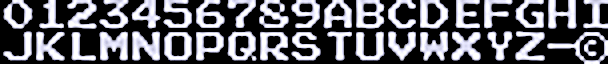
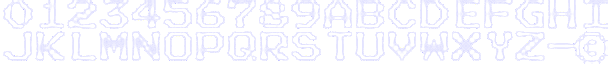
add text

diff --git a/engine.cpp b/engine.cpp
@@ -51,6 +51,10 @@ TestEngine::~TestEngine(){
 
     ReleaseTrees();
 
+    delete _Score;
+    delete _HighScore;
+    delete _Time;
+
 
     // wav freigeben
     Mix_FreeChunk(sound_Hop);
@@ -312,7 +316,9 @@ void TestEngine::RenderFrog(){
 }
 
 void TestEngine::RenderScore(){
-    _Score->Render();
+    //_Score->Render();
+    //_HighScore->Render();
+    _Time->RenderText("TIME",sPoint(_ResX/2,_ResY -70));
 }
 
 void TestEngine::GetNewState(){
@@ -708,6 +714,59 @@ void TestEngine::RenderSplashScreen(){
     _SplashScreen -> Render();
 }
 
+void TestEngine::InitTextMap(){
+
+    // Zeile 0
+     _Score->AddCharToMap('0',0,0);
+     _Score->AddCharToMap('1',1,0);
+     _Score->AddCharToMap('2',2,0);
+     _Score->AddCharToMap('3',3,0);
+     _Score->AddCharToMap('4',4,0);
+     _Score->AddCharToMap('5',5,0);
+
+     _Score->AddCharToMap('6',6,0);
+     _Score->AddCharToMap('7',7,0);
+     _Score->AddCharToMap('8',8,0);
+     _Score->AddCharToMap('9',9,0);
+     _Score->AddCharToMap('A',10,0);
+     _Score->AddCharToMap('B',11,0);
+
+     _Score->AddCharToMap('C',12,0);
+     _Score->AddCharToMap('D',13,0);
+     _Score->AddCharToMap('E',14,0);
+     _Score->AddCharToMap('F',15,0);
+     _Score->AddCharToMap('G',16,0);
+     _Score->AddCharToMap('H',17,0);
+     _Score->AddCharToMap('I',18,0);
+
+
+     // Zeile 1
+     _Score->AddCharToMap('J',0,1);
+     _Score->AddCharToMap('K',1,1);
+     _Score->AddCharToMap('L',2,1);
+     _Score->AddCharToMap('M',3,1);
+     _Score->AddCharToMap('N',4,1);
+     _Score->AddCharToMap('O',5,1);
+
+     _Score->AddCharToMap('P',6,1);
+     _Score->AddCharToMap('Q',7,1);
+     _Score->AddCharToMap('R',8,1);
+     _Score->AddCharToMap('S',9,1);
+     _Score->AddCharToMap('T',10,1);
+     _Score->AddCharToMap('U',11,1);
+
+     _Score->AddCharToMap('V',12,1);
+     _Score->AddCharToMap('W',13,1);
+     _Score->AddCharToMap('X',14,1);
+     _Score->AddCharToMap('Y',15,1);
+     _Score->AddCharToMap('Z',16,1);
+     _Score->AddCharToMap('-',17,1);
+     _Score->AddCharToMap('c',18,1); // copright
+
+     _HighScore->AddMapToMap(_Score->GetCharacters());
+     _Time->AddMapToMap(_Score->GetCharacters());
+}
+
 bool TestEngine::InitUserObjects(){
 
     bool ret = true;
@@ -818,8 +877,23 @@ bool TestEngine::InitUserObjects(){
     // ------------------------------------------
 
     _Score = new COSTUMTEXT::TextBase(_ResX,_ResY,"/home/paul/workspace/Frogger/images/Text32x32_19_2.png",_Shader);
-    _Score->InitTextureMap(20,2);
+    _Score->InitTextureMap(19,2);
     _Score->setPos(_ResX / 2 -300,_ResY-70);
+
+
+    _HighScore = new COSTUMTEXT::TextBase(_ResX,_ResY,"/home/paul/workspace/Frogger/images/Text32x32_19_2.png",_Shader);
+    _HighScore->InitTextureMap(19,2);
+    _HighScore->setPos(_ResX - 200,_ResY-70);
+
+    _Time = new COSTUMTEXT::TextBase(_ResX,_ResY,"/home/paul/workspace/Frogger/images/Text32x32_19_2.png",_Shader);
+    _Time->InitTextureMap(19,2);
+    _Time->setPos(_ResX / 2 -300,0);
+
+    _Time->AddText("TIME");
+
+
+
+    InitTextMap();
 
     audio = new Audio;
 

diff --git a/costumtext.cpp b/costumtext.cpp
@@ -15,10 +15,55 @@ COSTUMTEXT::TextBase::TextBase(int resx, int resy, std::string path, Shader *sh)
 
 
 COSTUMTEXT::TextBase::~TextBase(){
-    int i = 0;
-     while( i++ < _Characters.size()) {
-        delete _Characters.at(i);
+    // int i = 0;
+    // while( i++ < _Characters.size()) {
+    //     delete _Characters.at(i);
+    //}
+
+    _Characters.clear();
+}
+
+bool COSTUMTEXT::TextBase::UpdateText(std::string text, int index){
+    if (index >= _StringList.size() || index < 0  || _StringList.empty() ) return false;
+
+    _StringList[index] = text;
+}
+
+void COSTUMTEXT::TextBase::AddText(std::string text){
+
+    // Todo -> insert
+    _StringList.push_back(text);
+}
+
+void COSTUMTEXT::TextBase::AddCharToMap(char c, int tileposX, int tileposY){
+
+    std::map<char,sPoint>::iterator it = _Characters.end();
+
+    _Characters.insert(it,std::pair<char,sPoint>(c,sPoint(tileposX,tileposY)));
+
+}
+
+void COSTUMTEXT::TextBase::AddMapToMap(std::map<char, sPoint> m){
+    _Characters.insert(m.begin(),m.end());
+}
+
+std::map<char,sPoint> COSTUMTEXT::TextBase::GetCharacters(){
+    return _Characters;
+}
+
+void COSTUMTEXT::TextBase::RenderText(std::string text, sPoint pos){
+
+    setPos(pos.x,pos.y);
+    int x = pos.x;
+    for(char c: text){
+
+        sPoint p = _Characters[c];
+        RenderFromAsset(p.x,p.y);
+        x += SpriteSize().w;
+        setPos(x,pos.y);
     }
 }
+
+
 
 

diff --git a/costumtext.h b/costumtext.h
@@ -8,6 +8,14 @@
 
 namespace  COSTUMTEXT {
 
+// ---------------------------------------------------------------
+// TextBase: Stellt die Basis für die Texturen(Buchstaben)
+// bereit.
+// _Characters hält die Buchstaben von A - Z, 0 - 9, sonderzeichen
+// siehe Beispiel Image vom Frogger. Texturmap mit 19x2 images
+// 0 1 2 3 4 5 6 7 8 9 A B C D E F G H I
+// J K L M N O P Q R S T U V W X Y Z - copyright
+
     class TextBase : public ENGINE::Sprite
     {
     public:
@@ -15,10 +23,28 @@ namespace  COSTUMTEXT {
         TextBase(int resx, int resy, std::string path, Shader *sh);
         ~TextBase();
         void RenderText(std::string text,sPoint pos);
-    protected:
-        std::map<char,ENGINE::BaseObject2D*> _Characters;
 
-        std::vector<BaseObject2D*> _StringList;
+        //vorhanden string ändern
+        bool UpdateText(std::string text,int index);
+
+        // neuen TextZeile
+        void AddText(std::string text);
+
+        void AddCharToMap(char c, int tileposX, int tileposY);
+        void AddMapToMap(std::map<char,sPoint> m);
+        // Zum kopieren in andere Texts
+        std::map<char,sPoint> GetCharacters();
+
+
+    protected:
+        // zb.: char 'A' sPoint(10,0)
+        //      char 'J' sPoint(0,1)
+        std::map<char,sPoint> _Characters;
+        //
+        std::vector<std::string> _StringList;
+
+
+
 
     private:
         float _Scale;

diff --git a/engine.h b/engine.h
@@ -144,6 +144,7 @@ private:
     void GetNewState();
     void InitTreeRows();
     void ReleaseTrees();
+    void InitTextMap();
 
     void RenderBackgroundSprites();
     void RenderSplashScreen();
